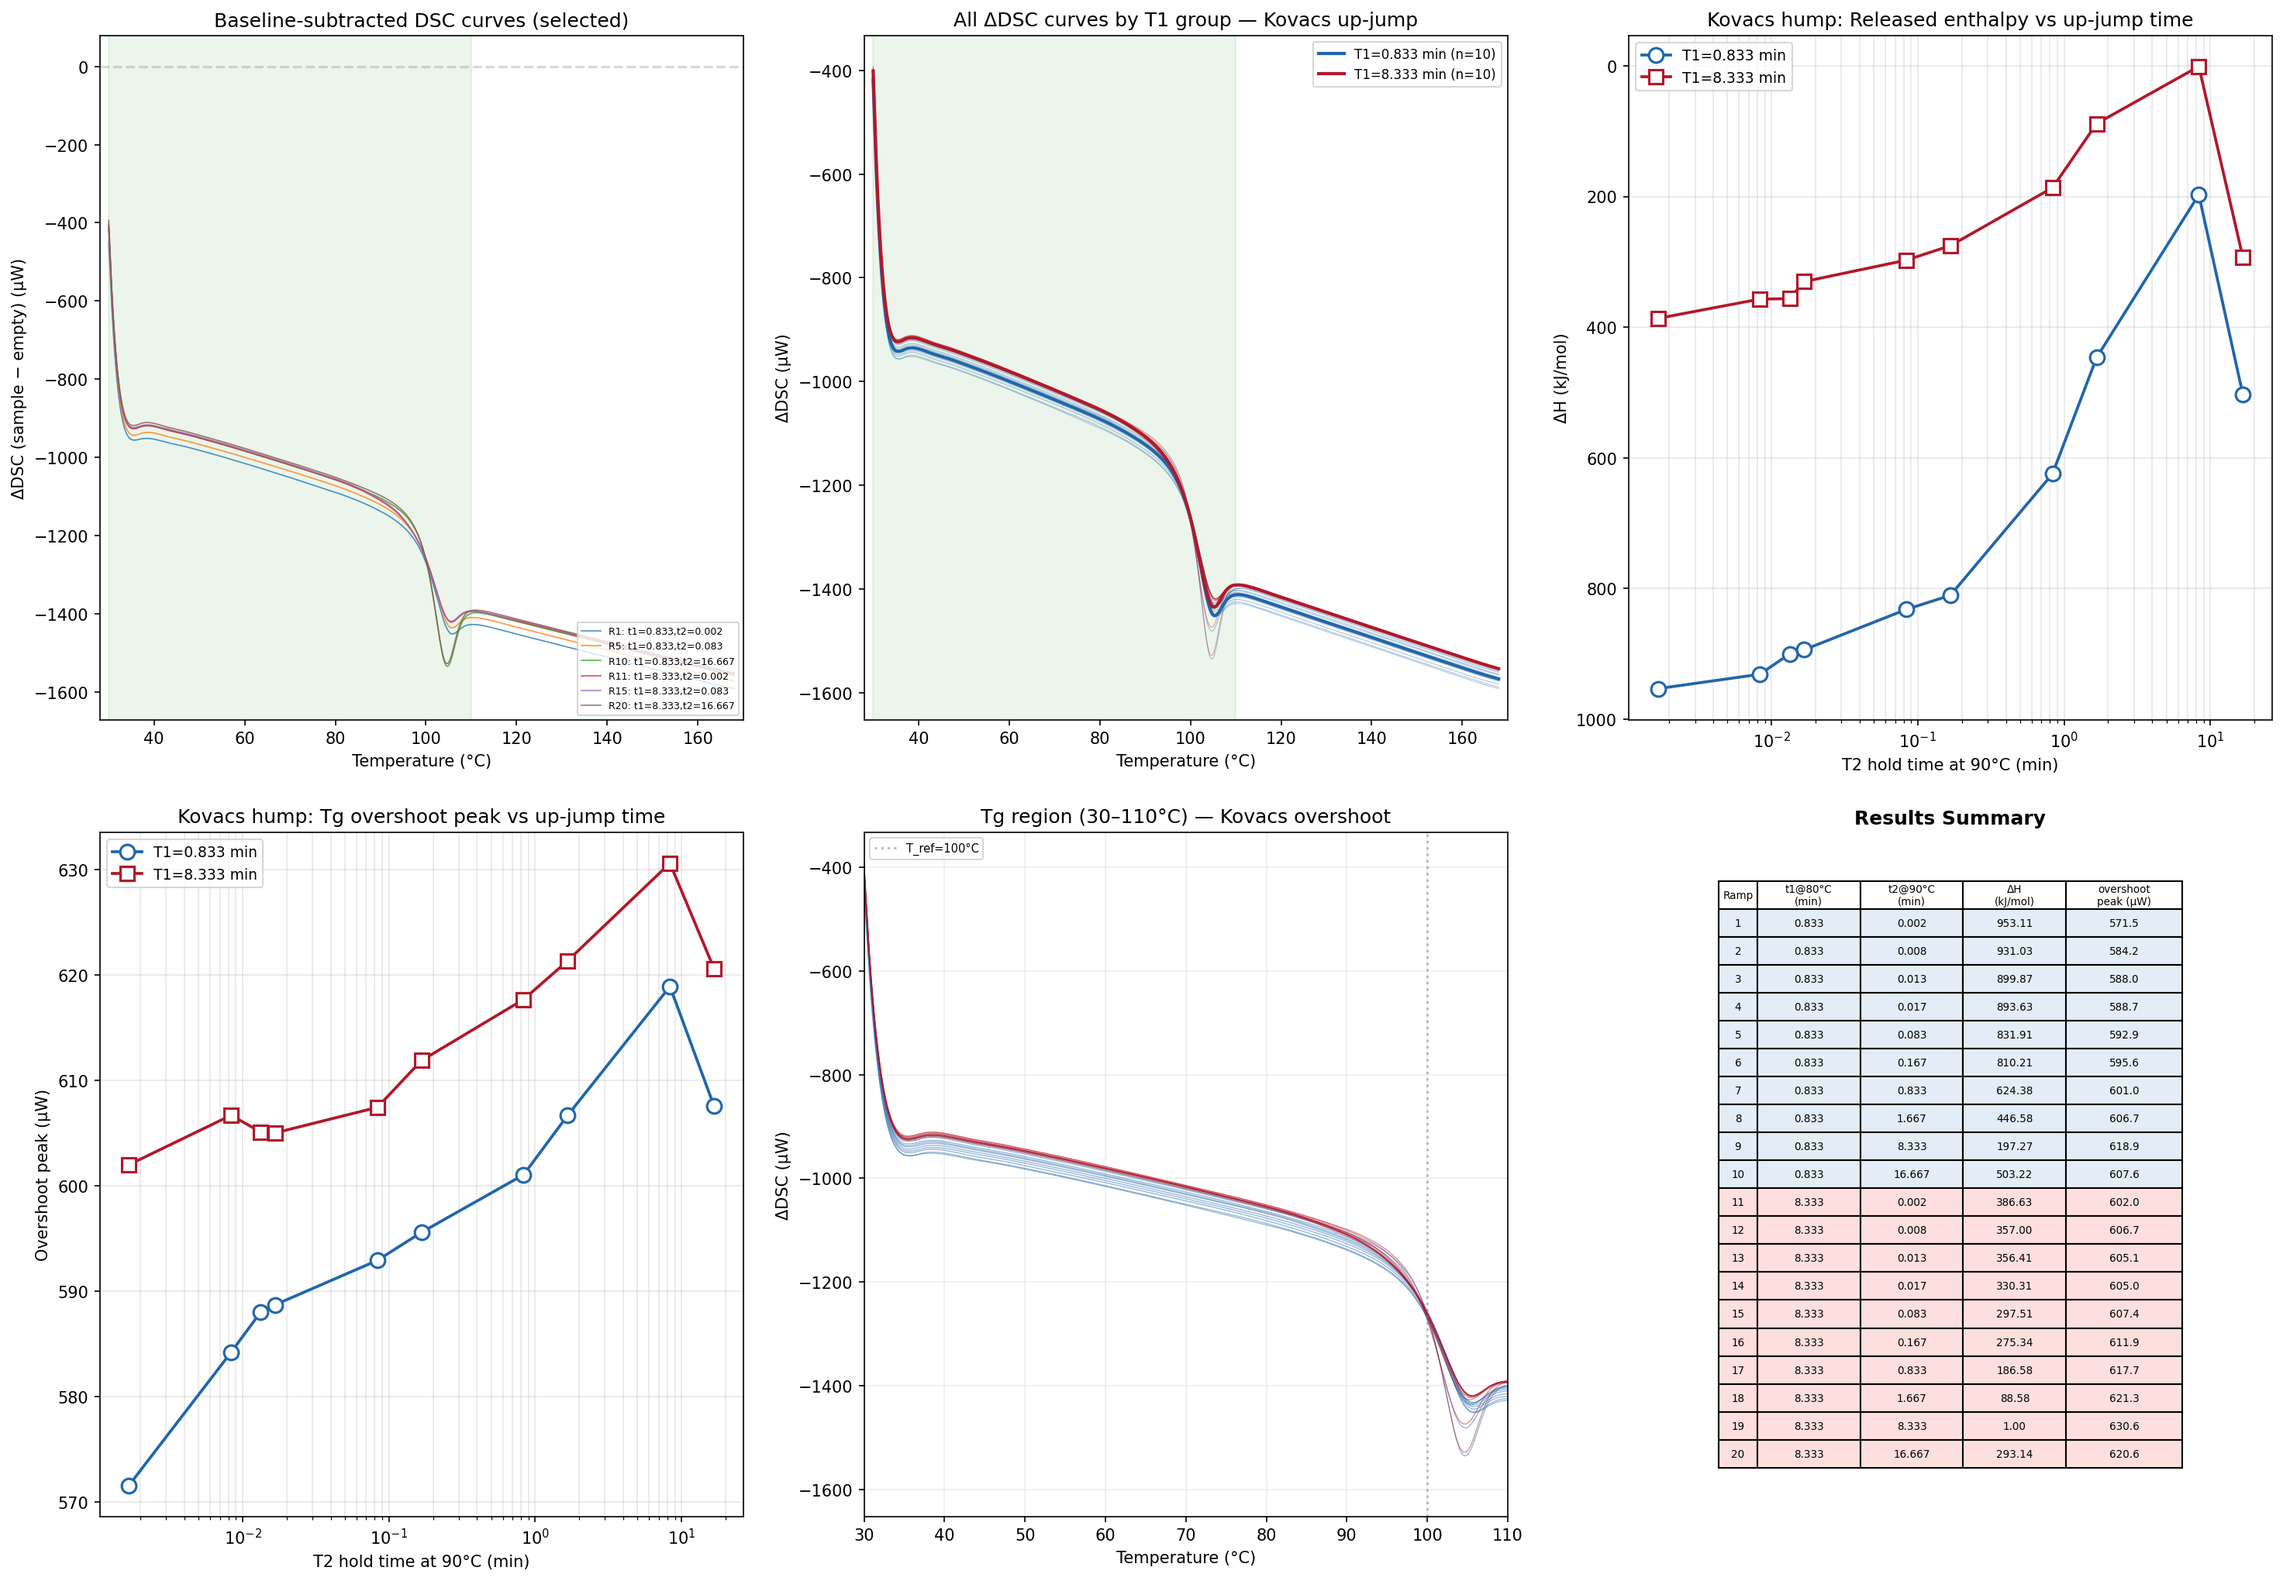
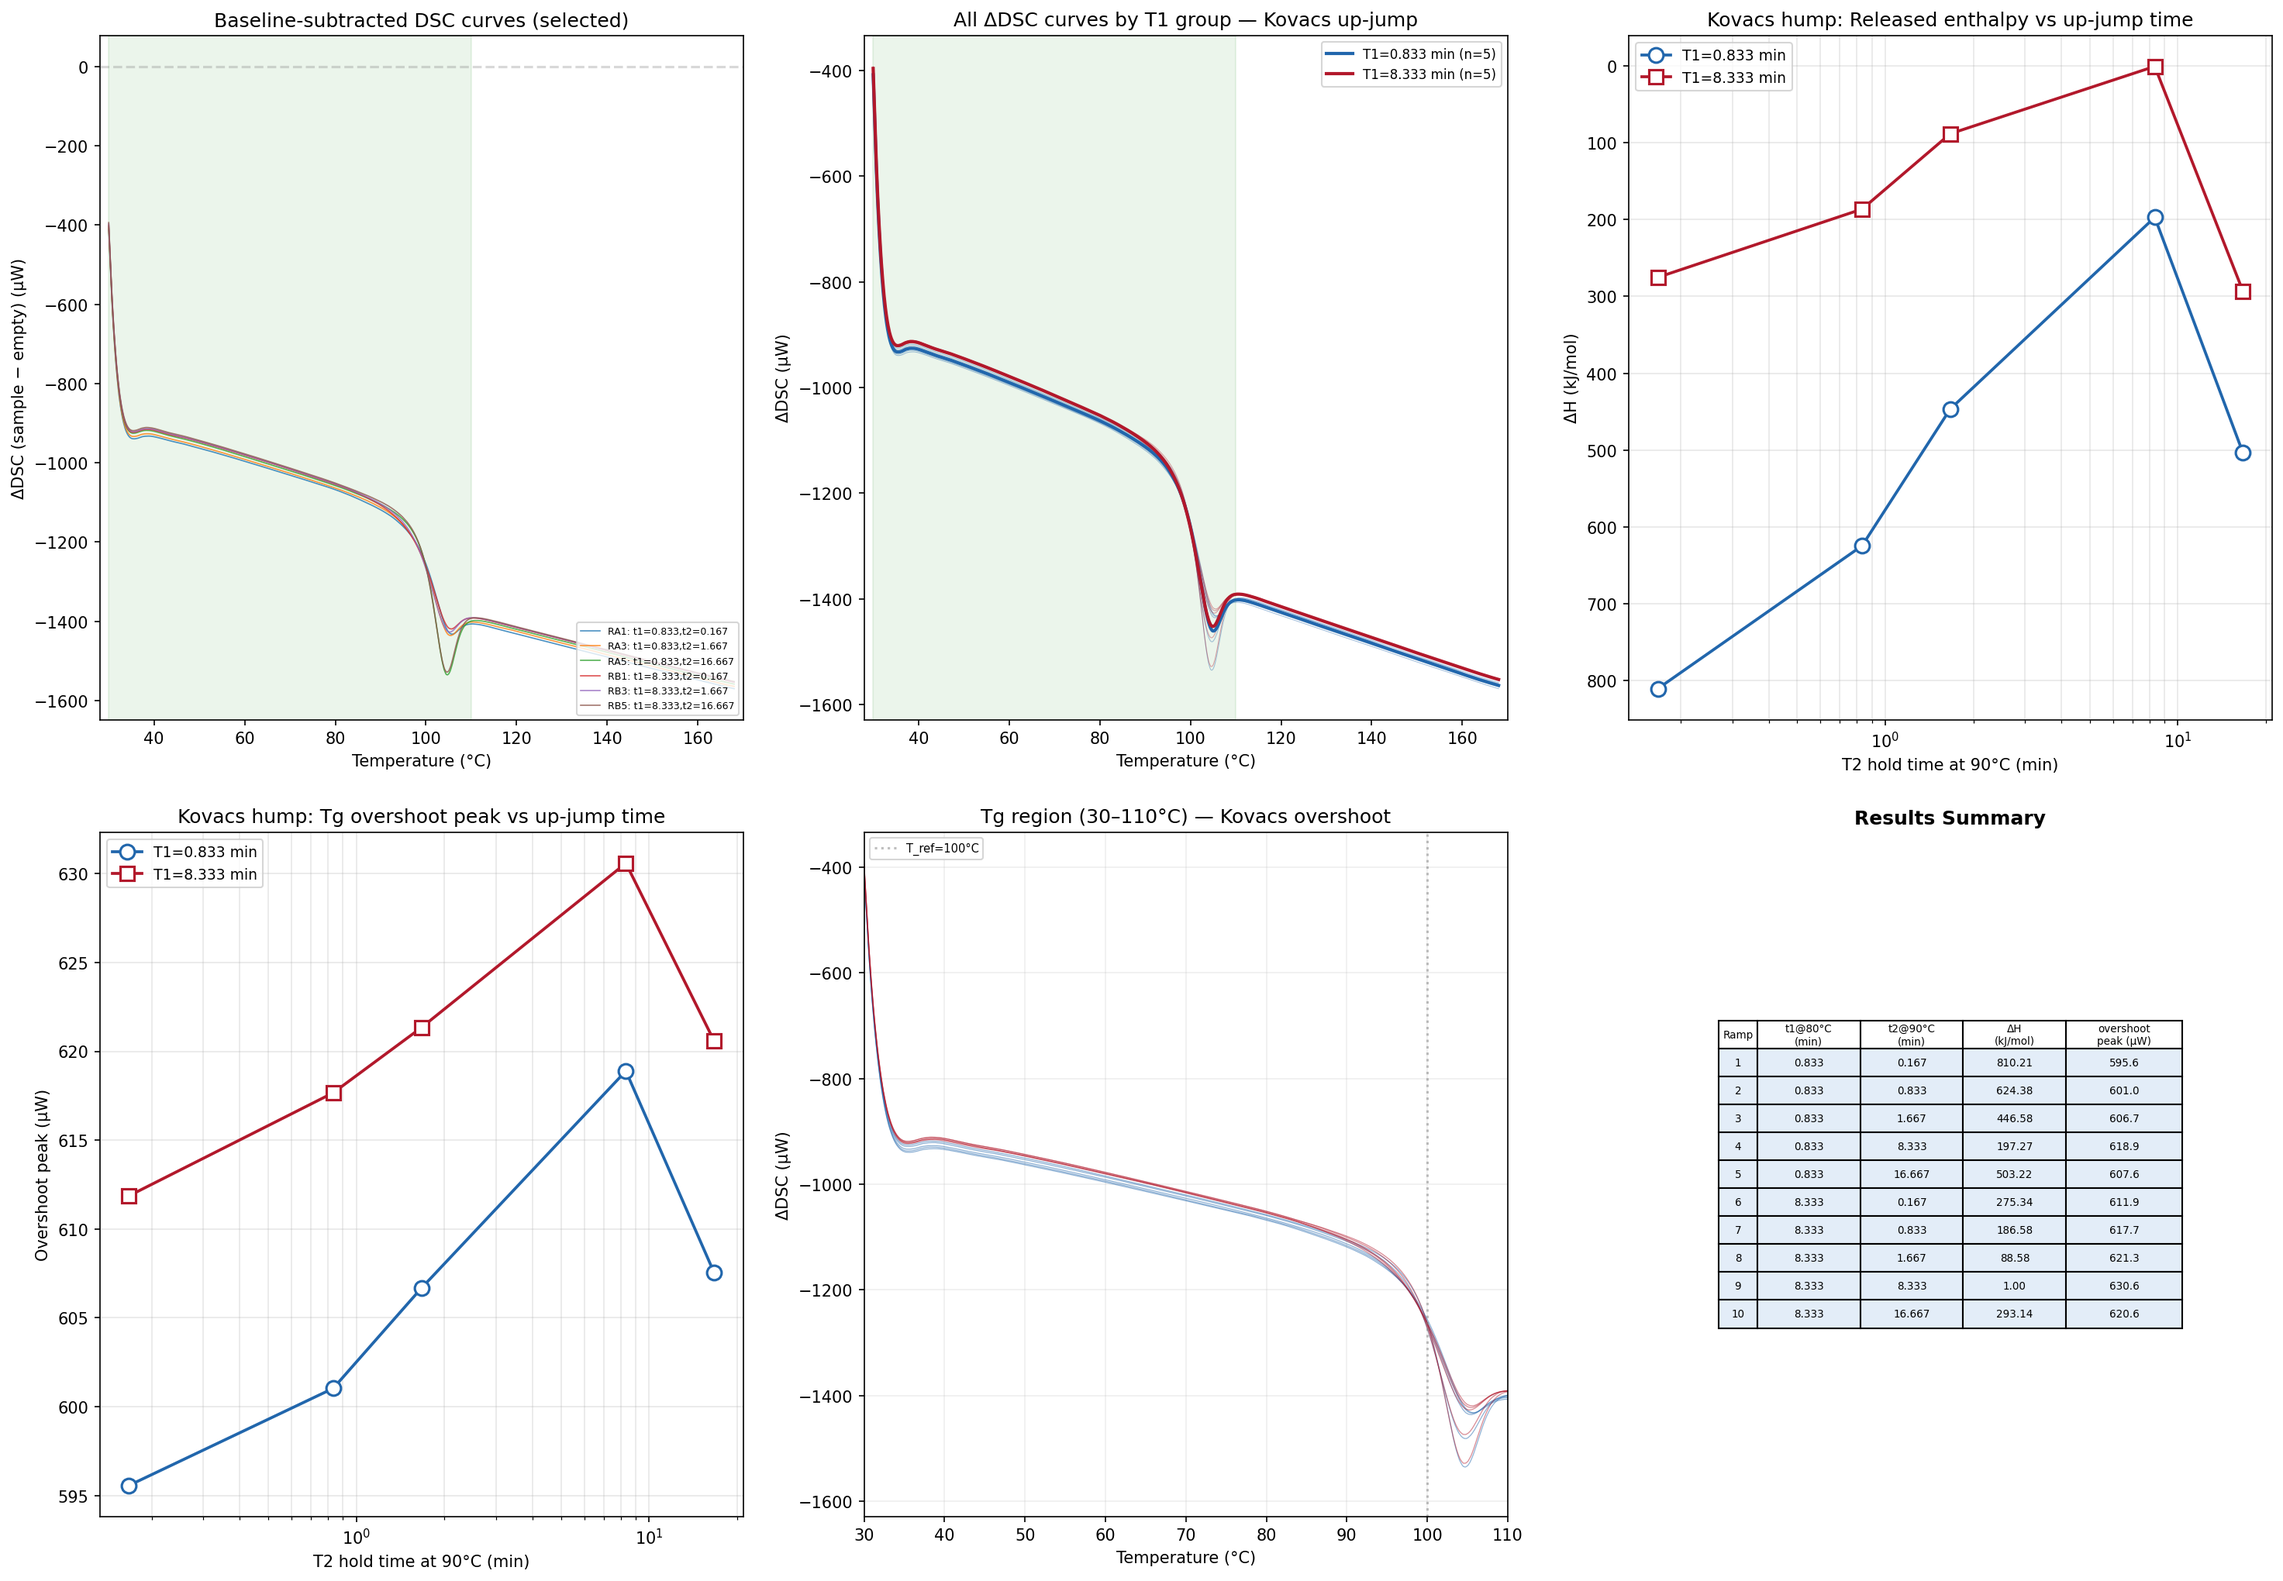
Exclude sub-instrument-response annealing times (t < 0.1 min)
Removes t2 < 0.1 min data points affected by thermal lag artifacts.
Twosteps trends now show clean monotonic/stretched-exponential increase.
Kovacs hump now clearly visible with smooth decrease-increase pattern.

diff --git a/src/process_onestep.py b/src/process_onestep.py
@@ -172,9 +172,16 @@ def process_onestep(data_file, sheet, T_anneal, label, out_name):
             'start_idx': s, 'end_idx': e,
         })
 
-    print(f"  Annealing conditions (hold @ {T_anneal}°C):")
+    # Filter sub-instrument-response times
+    MIN_HOLD = 0.1
+    conditions = [c for c in conditions if c['hold_min'] is not None and c['hold_min'] >= MIN_HOLD]
+    for i, c in enumerate(conditions):
+        c['ramp_idx'] = i + 1
+
+    print(f"  Annealing conditions (hold @ {T_anneal}°C, >= {MIN_HOLD} min):")
     for c in conditions:
         print(f"    Ramp {c['ramp_idx']:2d}: hold = {c['hold_min']:8.4f} min")
+    print(f"  Kept {len(conditions)}/{len(ramps)} ramps")
 
     # Compute raw integrals
     raw_integrals = []
@@ -187,14 +194,17 @@ def process_onestep(data_file, sheet, T_anneal, label, out_name):
         int_mask = (T_grid >= T_INT_LOW) & (T_grid <= T_INT_HIGH)
         raw_integrals.append(trapezoid(delta_DSC[int_mask], T_grid[int_mask]))
 
-    # Global reference + offset for positive values
-    ref_global = raw_integrals[0]
-    all_diffs = [(r - ref_global) * CONV_KJMOL for r in raw_integrals]
+    # Per-run reference (after filtering, first half = Run 1, second half = Run 2)
+    n = len(raw_integrals) // 2
+    ref_R1 = raw_integrals[0]
+    ref_R2 = raw_integrals[n] if n > 0 else ref_R1
+    all_diffs = [(r - (ref_R1 if i < n else ref_R2)) * CONV_KJMOL for i, r in enumerate(raw_integrals)]
     offset = max(0, -min(all_diffs)) + 1.0
     results = []
     for ramp_idx, cond in enumerate(conditions):
         integral = raw_integrals[ramp_idx]
-        delta_H_raw = (integral - ref_global) * CONV_KJMOL
+        ref = ref_R1 if ramp_idx < n else ref_R2
+        delta_H_raw = (integral - ref) * CONV_KJMOL
         delta_H = delta_H_raw + offset
         results.append({
             'ramp': ramp_idx + 1, 'hold_min': cond['hold_min'],
@@ -209,9 +219,10 @@ def process_onestep(data_file, sheet, T_anneal, label, out_name):
 
     # Panel 1: ΔH vs hold time
     ax1 = axes[0]
-    # Split into first 10 and second 10 (replicates)
-    r1 = results_df.iloc[:10]
-    r2 = results_df.iloc[10:]
+    # Split into Run 1 and Run 2 (replicates)
+    n_half = len(results_df) // 2
+    r1 = results_df.iloc[:n_half]
+    r2 = results_df.iloc[n_half:]
     ax1.plot(r1['hold_min'], r1['delta_H_kJmol'], 'o-', color='#2166AC', linewidth=1.8,
              markersize=9, markerfacecolor='white', markeredgewidth=1.5, label='Run 1')
     ax1.plot(r2['hold_min'], r2['delta_H_kJmol'], 's--', color='#B2182B', linewidth=1.8,
@@ -227,7 +238,7 @@ def process_onestep(data_file, sheet, T_anneal, label, out_name):
     # Panel 2: ΔH bar chart
     ax2 = axes[1]
     x_pos = np.arange(len(results_df))
-    bar_colors = ['#2166AC'] * 10 + ['#B2182B'] * 10
+    bar_colors = ['#2166AC'] * n_half + ['#B2182B'] * (len(results_df) - n_half)
     ax2.bar(x_pos, results_df['delta_H_kJmol'], color=bar_colors, edgecolor='black',
             linewidth=0.5, alpha=0.85)
     ax2.set_xticks(x_pos)
@@ -253,8 +264,8 @@ def process_onestep(data_file, sheet, T_anneal, label, out_name):
     print(f"  {'-'*35}")
     for _, r in results_df.iterrows():
         print(f"  {r['ramp']:<4.0f}  {r['hold_min']:>12.4f}  {r['delta_H_kJmol']:>12.2f}")
-    run1 = results_df.iloc[:10]
-    run2 = results_df.iloc[10:]
+    run1 = results_df.iloc[:n_half]
+    run2 = results_df.iloc[n_half:]
     print(f"\n  Run 1: ΔH = {run1['delta_H_kJmol'].min():.2f} – {run1['delta_H_kJmol'].max():.2f} kJ/mol")
     print(f"  Run 2: ΔH = {run2['delta_H_kJmol'].min():.2f} – {run2['delta_H_kJmol'].max():.2f} kJ/mol")
 

diff --git a/src/process_twosteps.py b/src/process_twosteps.py
@@ -203,9 +203,17 @@ def main():
             'end_idx': e,
         })
 
+    # Filter: exclude annealing times below instrument thermal response (~0.1 min)
+    MIN_HOLD = 0.1  # min
+    conditions = [c for c in conditions if c['T2_hold_min'] is not None and c['T2_hold_min'] >= MIN_HOLD]
+    # Reindex remaining ramps
+    for i, c in enumerate(conditions):
+        c['ramp_idx'] = i + 1
+
     for c in conditions:
         print(f"    Ramp {c['ramp_idx']:2d}: T1(90°C)={c['T1_hold_min']:8.4f} min, "
               f"T2(80°C)={c['T2_hold_min']:8.4f} min")
+    print(f"  Kept {len(conditions)}/{len(ramps)} ramps (T2 >= {MIN_HOLD} min)")
 
     # ── 4. Compute ΔH for each ramp ─────────────────────────────────────
     print(f"\n[3/4] Computing ΔH ({T_INT_LOW}–{T_INT_HIGH}°C) by direct heat-flow integration...")
@@ -262,8 +270,8 @@ def main():
 
     # Panel 1: ΔDSC curves
     ax1 = fig.add_subplot(2, 3, 1)
-    highlight = [0, 4, 9, 10, 14, 19]
-    labels_h = [1, 5, 10, 11, 15, 20]
+    highlight = [0, 2, 4, 5, 7, 9]
+    labels_h = ['A1','A3','A5','B1','B3','B5']
     for idx, lbl in zip(highlight, labels_h):
         c = conditions[idx]
         ax1.plot(T_grid, dsc_curves[idx], alpha=0.8, linewidth=0.8,
@@ -323,11 +331,12 @@ def main():
     ax4.set_ylabel(f'ΔH (kJ/mol)')
     ax4.set_xlabel('Ramp number')
     ax4.set_title('ΔH (released) distribution across all annealing conditions')
-    ax4.axvline(9.5, color='gray', linestyle='--', alpha=0.7)
+    mid = len(t1_short) - 0.5
+    ax4.axvline(mid, color='gray', linestyle='--', alpha=0.7)
     ylim = ax4.get_ylim()
-    ax4.text(4.5, ylim[1] * 0.98, 'T1=0.833 min', ha='center', fontsize=9,
+    ax4.text(mid/2, ylim[1] * 0.98, 'T1=0.833 min', ha='center', fontsize=9,
              fontweight='bold', color=colors_grp[0])
-    ax4.text(14.5, ylim[1] * 0.98, 'T1=8.333 min', ha='center', fontsize=9,
+    ax4.text(mid + len(t1_long)/2, ylim[1] * 0.98, 'T1=8.333 min', ha='center', fontsize=9,
              fontweight='bold', color=colors_grp[1])
 
     # Panel 5: Raw DSC curves on sample grid (selected)

diff --git a/src/process_kovacs.py b/src/process_kovacs.py
@@ -208,9 +208,16 @@ def main():
             'end_idx': e,
         })
 
+    # Filter: exclude sub-instrument-response annealing times
+    MIN_HOLD = 0.1
+    conditions = [c for c in conditions if c['T2_hold_min'] is not None and c['T2_hold_min'] >= MIN_HOLD]
+    for i, c in enumerate(conditions):
+        c['ramp_idx'] = i + 1
+
     for c in conditions:
         print(f"    Ramp {c['ramp_idx']:2d}: T1(80°C)={c['T1_hold_min']:8.4f} min, "
               f"T2(90°C)={c['T2_hold_min']:8.4f} min")
+    print(f"  Kept {len(conditions)}/{len(ramps)} ramps (T2 >= {MIN_HOLD} min)")
 
     # ── 4. Compute Tg overshoot enthalpy (Kovacs ΔH) ────────────────────
     # ΔH = excess DSC integral in [T_TG_LO, T_TG_HI] above DSC@T_REF baseline
@@ -286,8 +293,8 @@ def main():
 
     # Panel 1: ΔDSC curves (selected)
     ax1 = fig.add_subplot(2, 3, 1)
-    highlight = [0, 4, 9, 10, 14, 19]
-    labels_h = [1, 5, 10, 11, 15, 20]
+    highlight = [0, 2, 4, 5, 7, 9]
+    labels_h = ['A1','A3','A5','B1','B3','B5']
     for idx, lbl in zip(highlight, labels_h):
         c = conditions[idx]
         ax1.plot(T_grid, dsc_curves[idx], alpha=0.8, linewidth=0.8,
